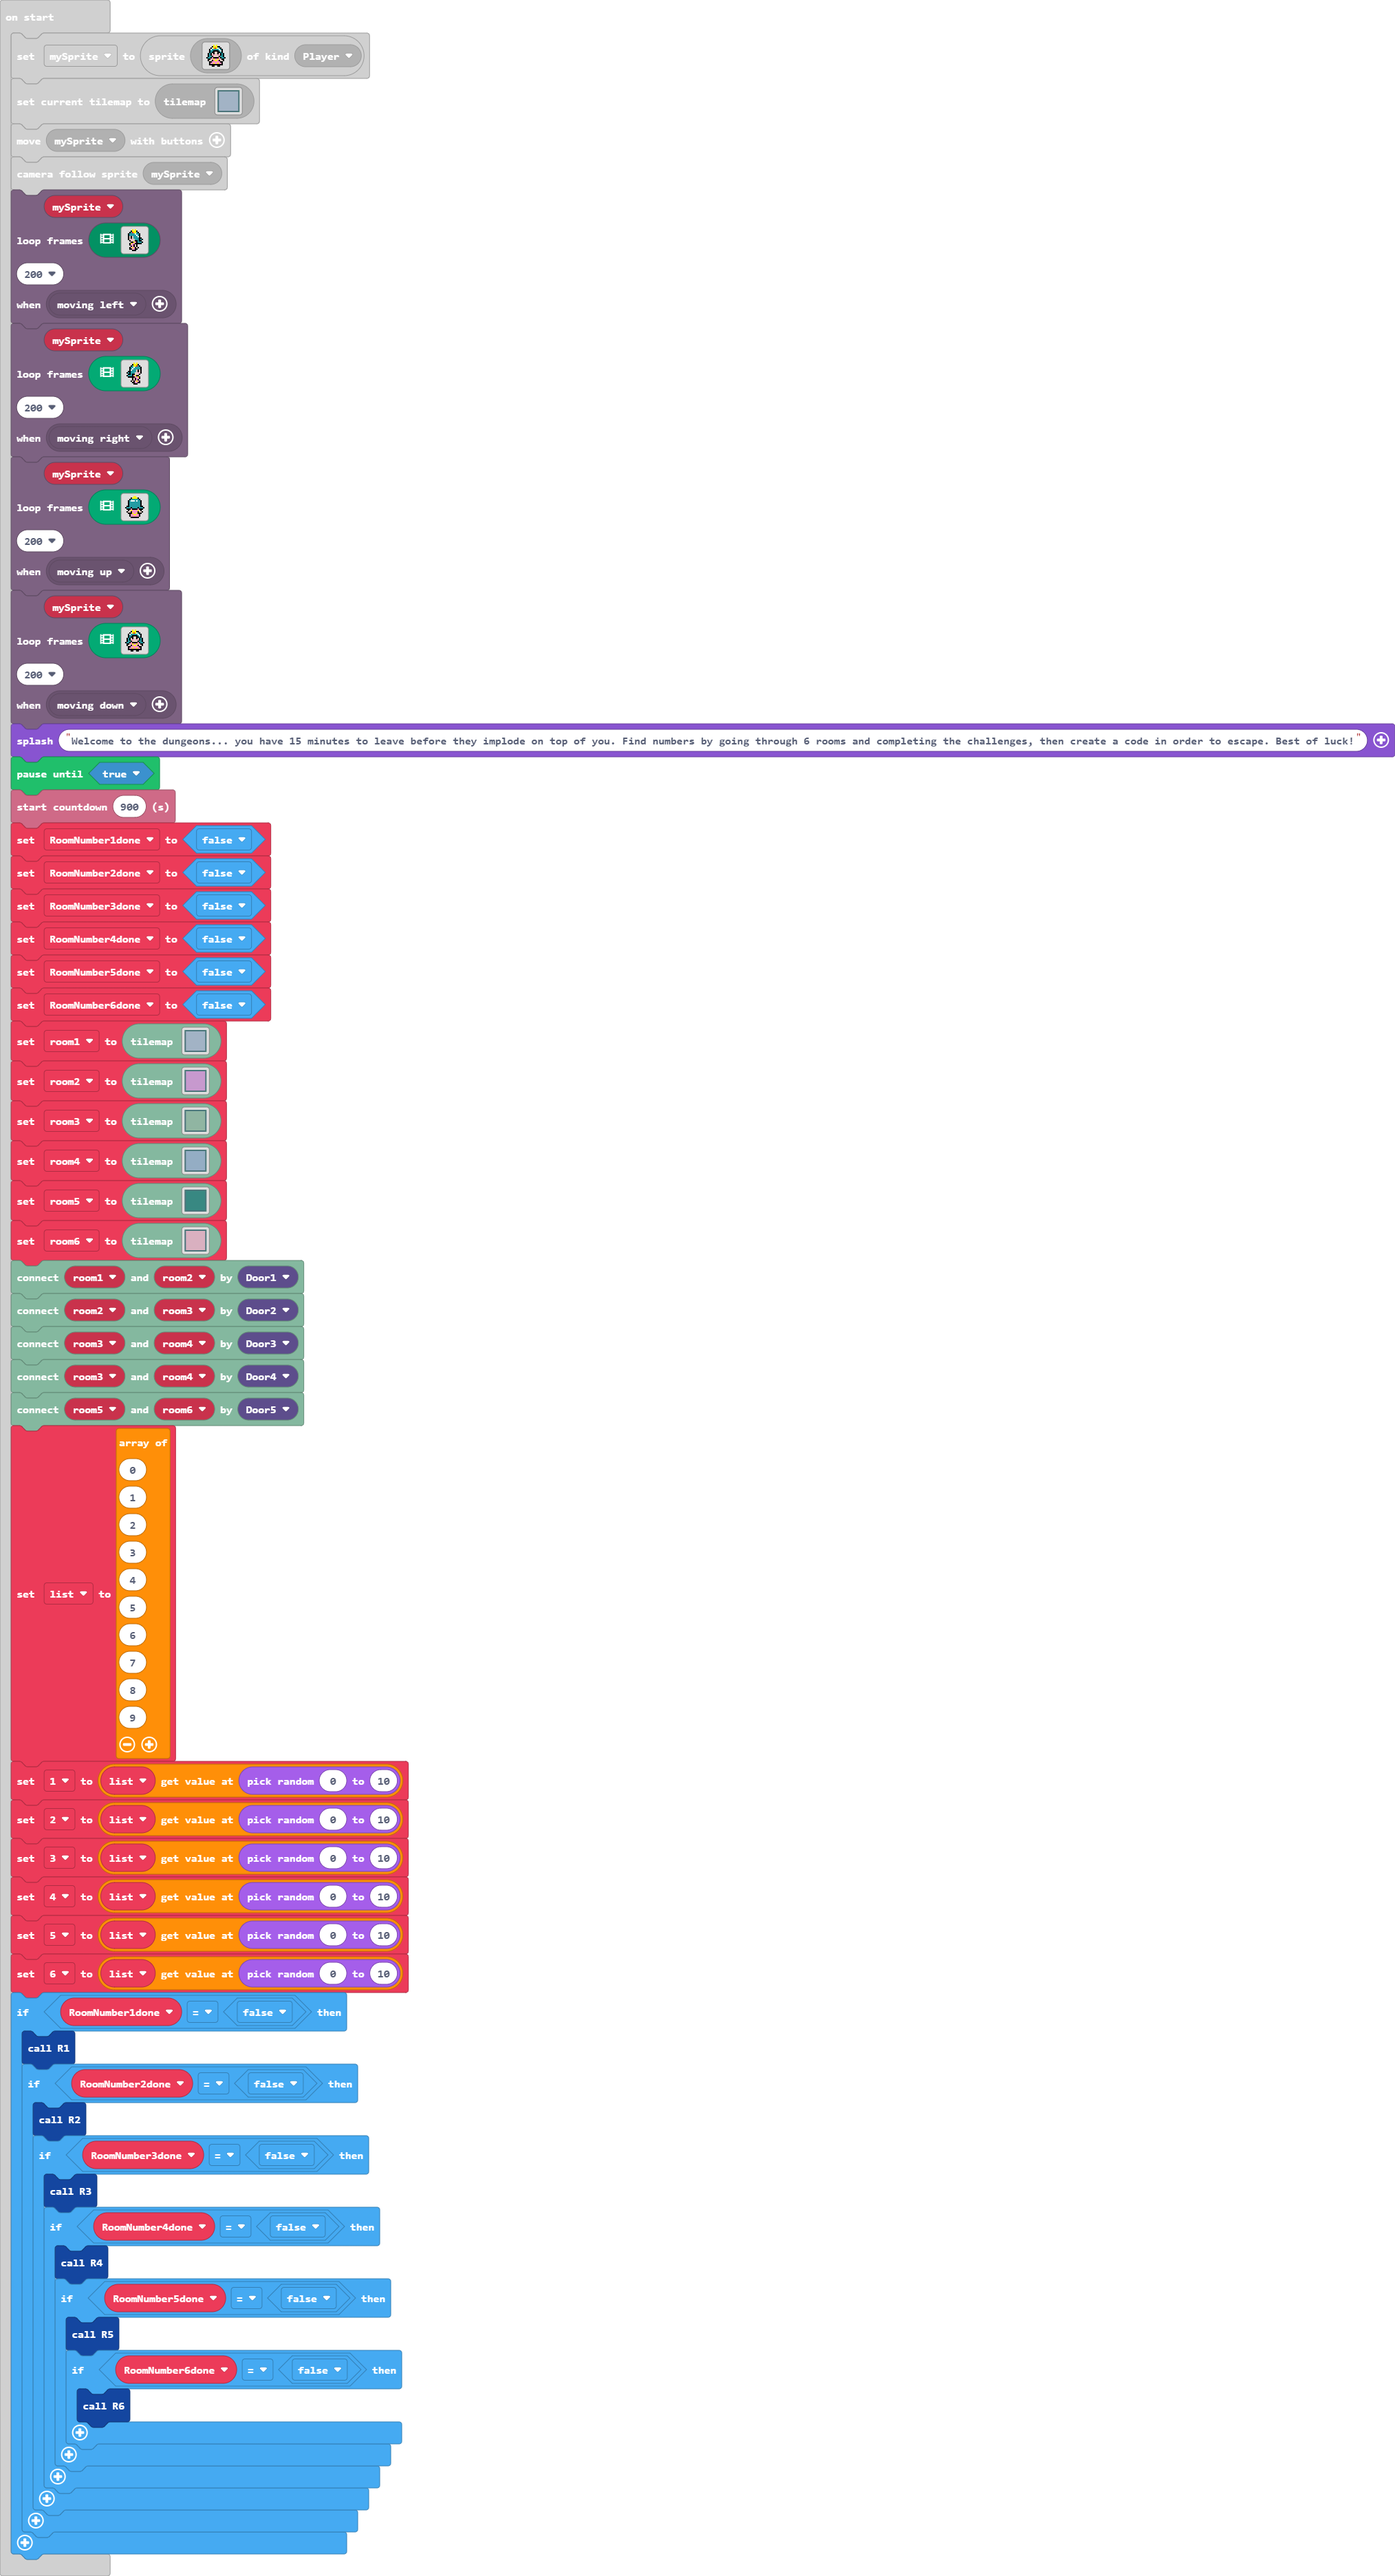
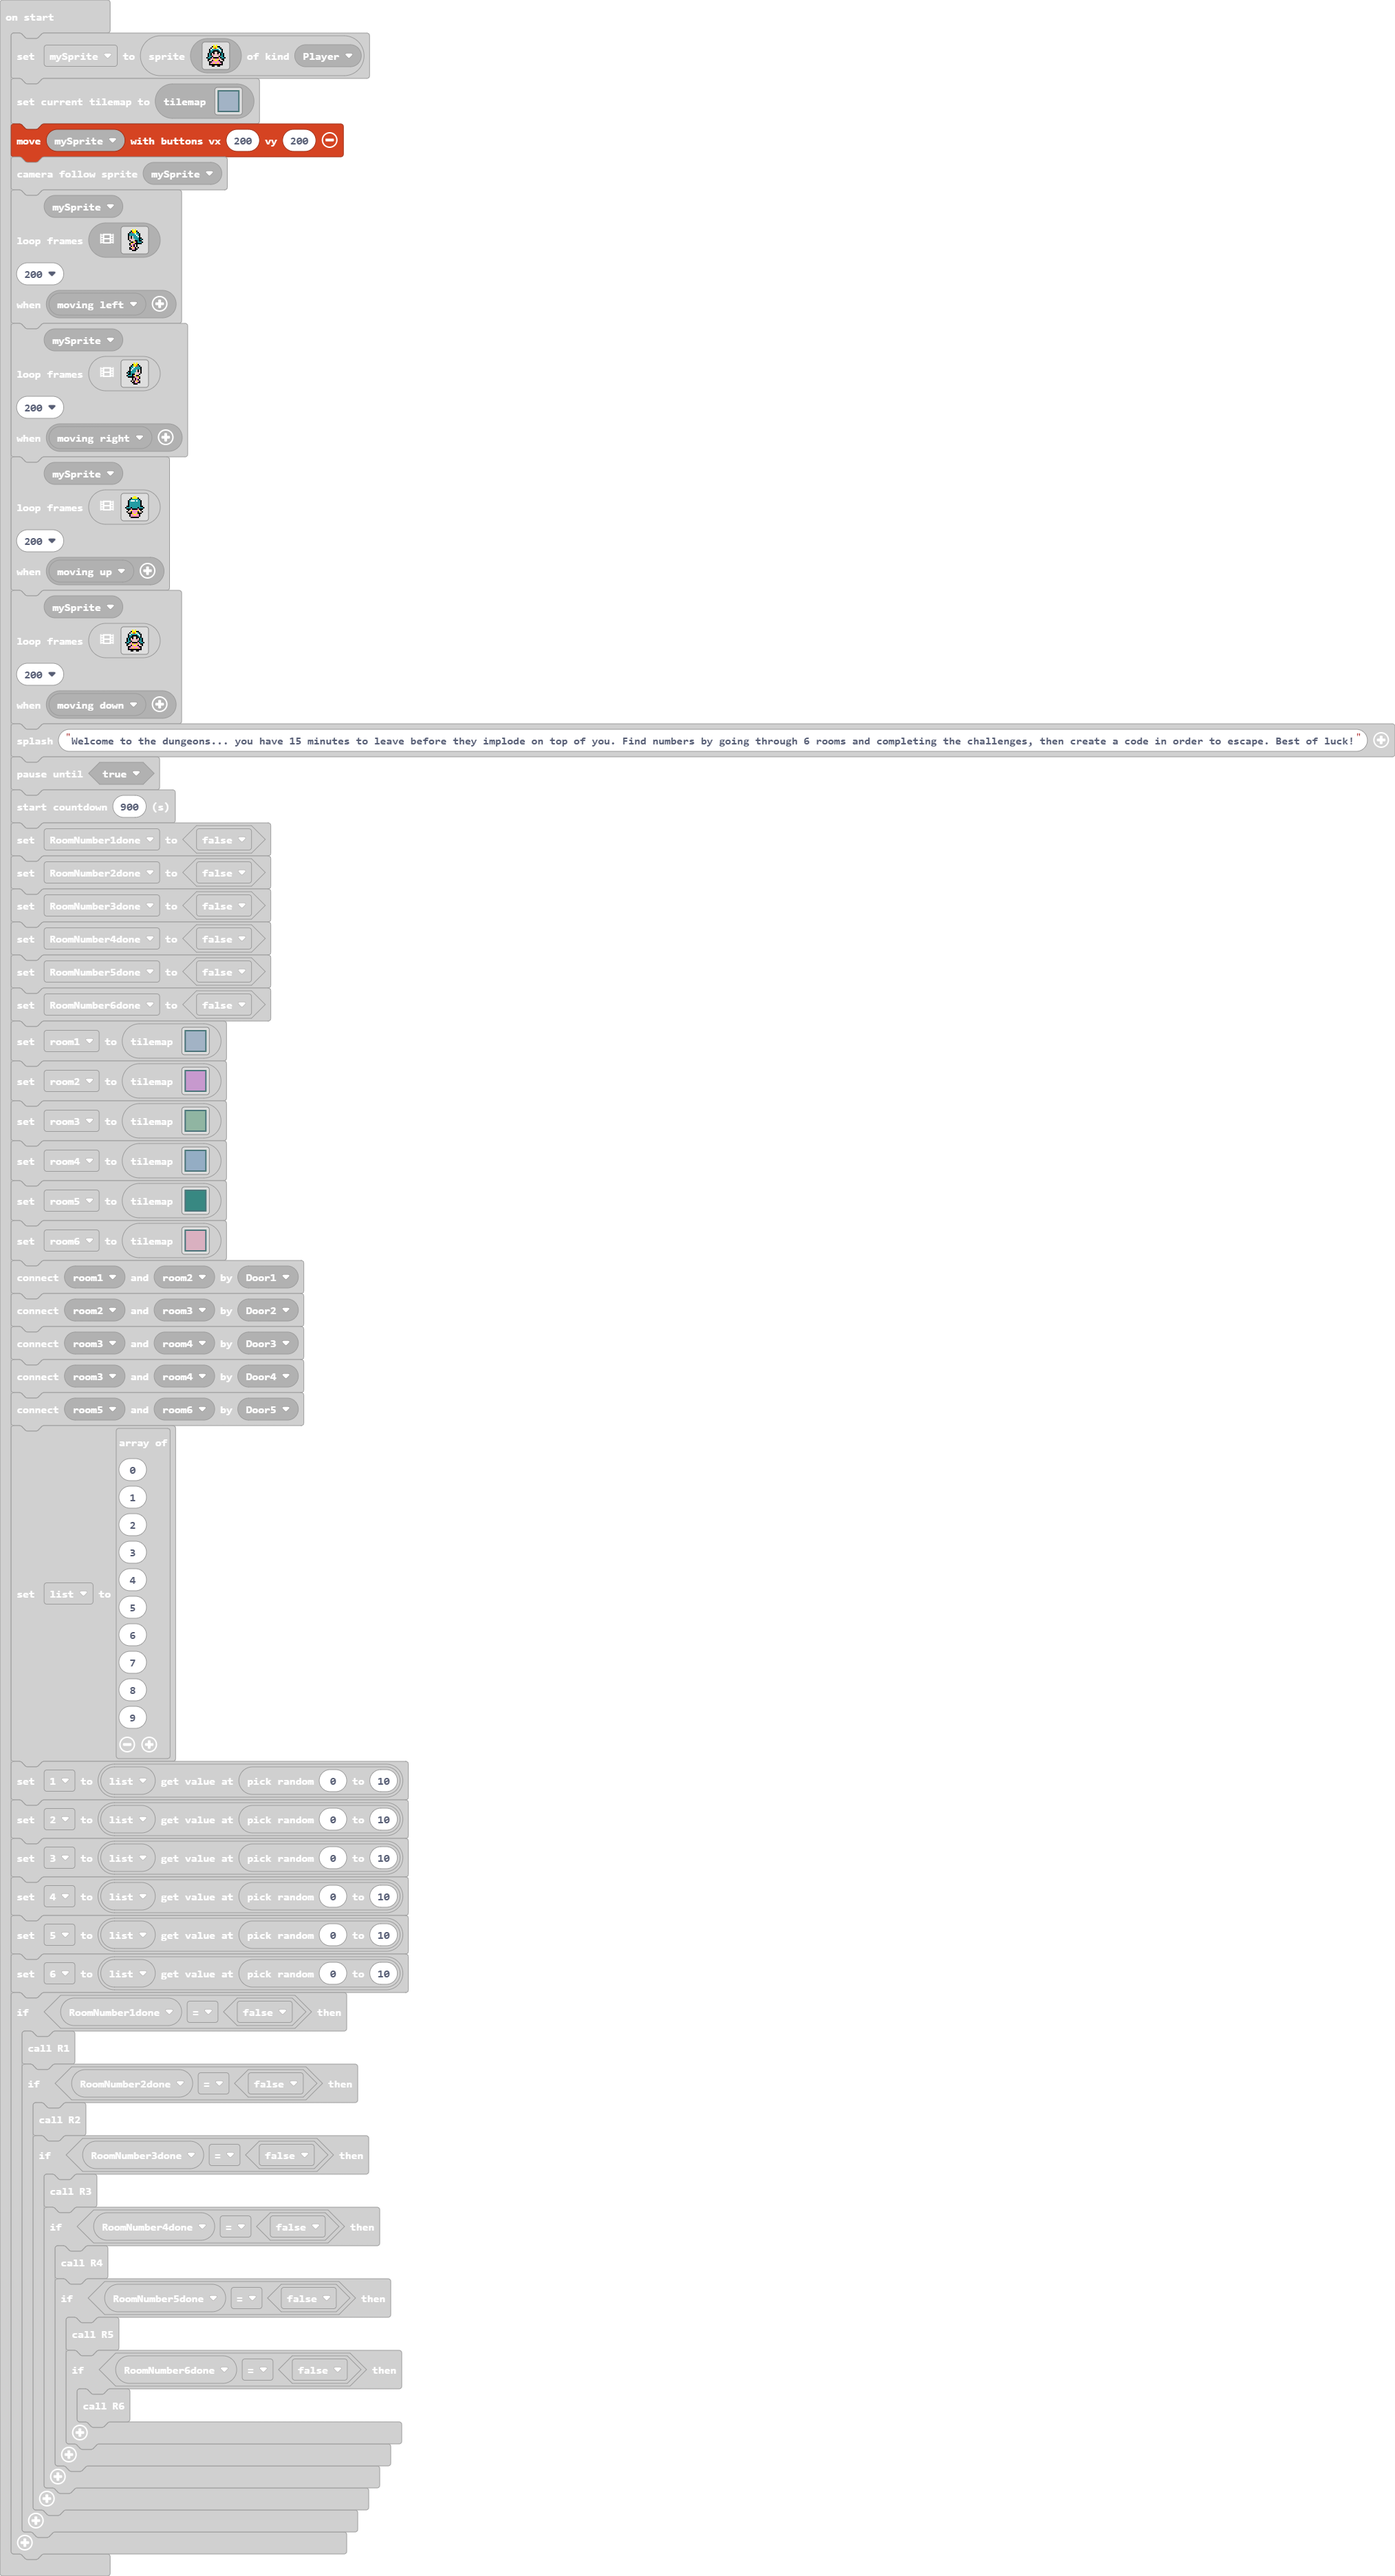
character speed button

Changed region(s): [[0.0, 0.0312, 1.0, 1.0]]

diff --git a/main.ts b/main.ts
@@ -109,7 +109,7 @@ mySprite = sprites.create(img`
     . . . . . f f . . f f . . . . . 
     `, SpriteKind.Player)
 tiles.loadMap(tiles.createMap(tilemap`level6`))
-controller.moveSprite(mySprite)
+controller.moveSprite(mySprite, 200, 200)
 scene.cameraFollowSprite(mySprite)
 characterAnimations.loopFrames(
 mySprite,
